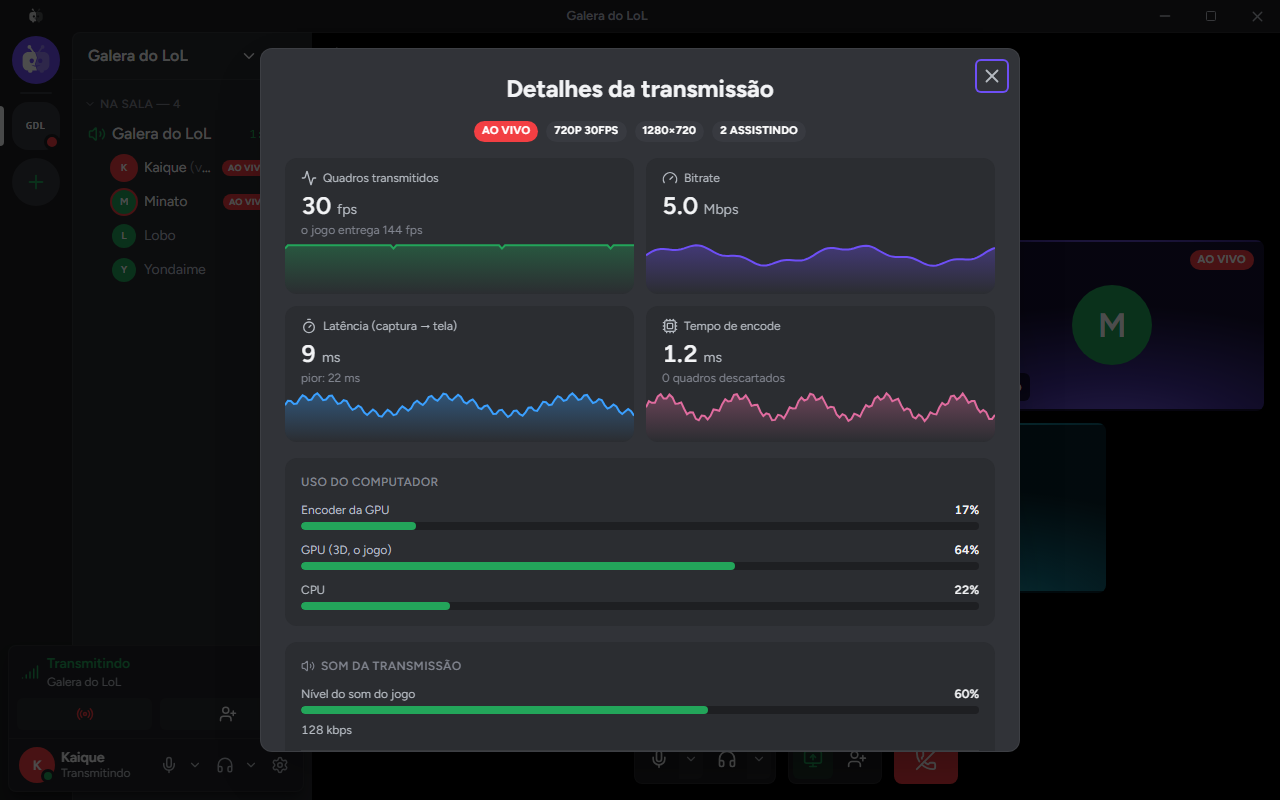
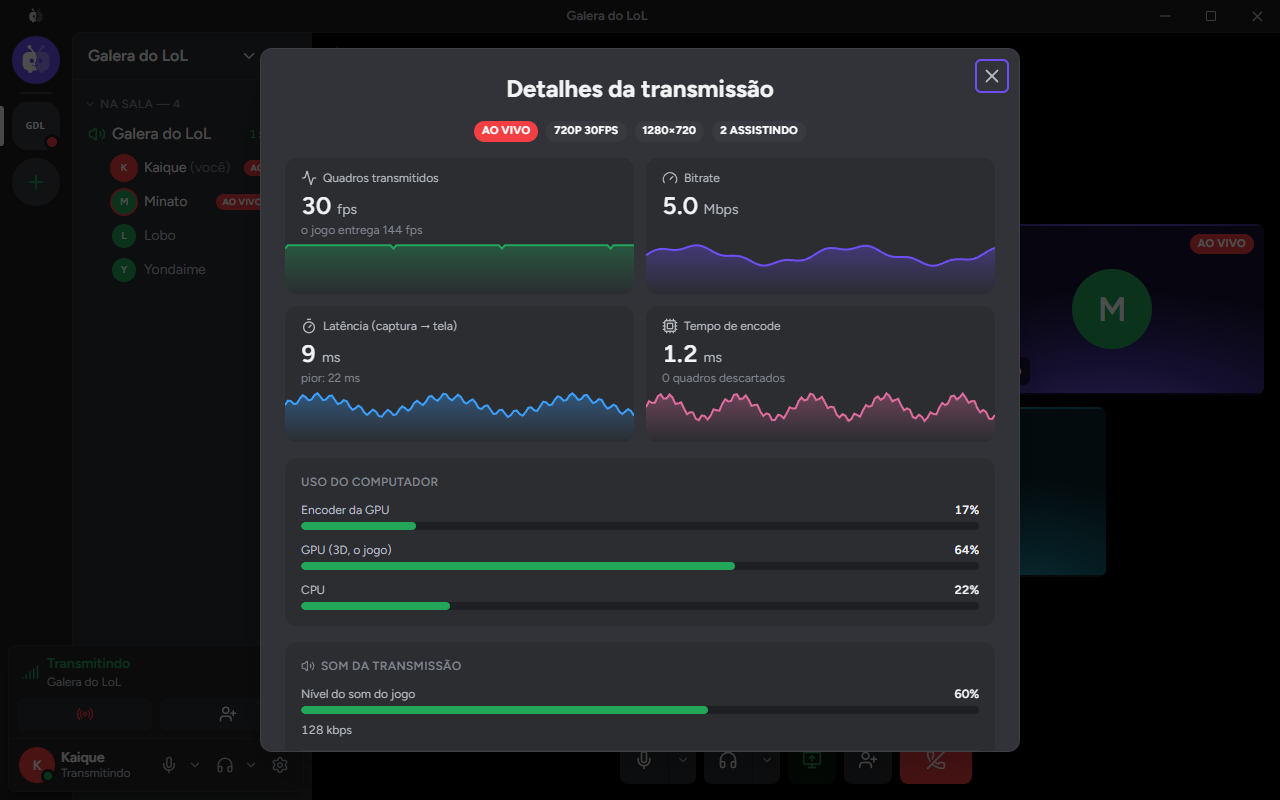
docs(docs): atualiza o README e o roadmap para a versão 0.10 (#83)

diff --git a/README.md b/README.md
@@ -35,7 +35,7 @@
 </p>
 
 > [!NOTE]
-> **Versão 0.9: várias lives ao mesmo tempo.** Cada live que você assiste vira um quadro da sala, igual ao da sua: assista até 4 de uma vez, com volume, silenciar, tela cheia, picture in picture e detalhes com o ping no menu de cada uma. Quem está atrás de CGNAT agora se ouve na voz: se dois amigos não se alcançam, um terceiro da sala repassa a voz entre eles, assinada para ninguém no meio conseguir falsificar. A sala não tem mais limite de pessoas, o convite do servidor virou um link clicável, o ícone do servidor mostra um alto-falante quando tem gente em call e as conversas ganharam som de mensagem nova, contador e cancelar download. A sala inteira distribuindo o vídeo chega na [Fase 3](docs/roadmap.md). Achou um problema? [Abra uma issue](https://github.com/Kaique292/squadview/issues).
+> **Versão 0.10: a live com cara de Discord.** O vídeo agora é desenhado por baixo da interface: o AO VIVO, a qualidade, o nome, os menus e as animações aparecem por cima da live, sem as manchas e molduras pretas de antes, e um modal aberto não esconde mais a live. O picture in picture ganhou controles ao passar o mouse: silenciar, volume e voltar para o app. A sala ficou como a do Discord, com quem transmite e quem está assistindo no topo e a barra de botões embaixo dos quadros. Nas conversas, passe o mouse numa mensagem para reagir com emoji ou responder, e a hora aparece como no Discord ("Ontem às 23:59", só a hora para hoje e a data para dias anteriores). A sala inteira distribuindo o vídeo chega na [Fase 3](docs/roadmap.md). Achou um problema? [Abra uma issue](https://github.com/Kaique292/squadview/issues).
 
 ## ✨ O que ele faz
 
@@ -45,13 +45,13 @@
 - **Direto de PC para PC.** O vídeo não passa por servidor. As conexões são cifradas (QUIC com TLS 1.3).
 - **Jogue do jeito que quiser.** Janela, sem bordas ou tela cheia: escolha o jogo uma vez e o app acompanha sozinho do cliente para a partida e de volta (LoL, Valorant e jogos com launcher). Nada é injetado no jogo, então é seguro com Vanguard, EAC e BattlEye.
 - **Só o áudio do jogo.** Transmitindo um jogo ou app, vai só o som dele, e o som acompanha quando o jogo troca de janela; o som da call fica de fora.
-- **A sua live na sala**, como no Discord: transmitindo, a sua tela vira um quadro da sala, com a qualidade e o AO VIVO no canto. Clique para pôr em foco, dois cliques para a tela cheia e o botão direito para parar, trocar o que transmite, mudar a qualidade ou ligar e desligar o som, sem sair do ar. Os detalhes mostram o último minuto em gráficos (fps, bitrate, latência e encode) e o uso da GPU e da CPU em barras.
-- **Assista várias lives ao mesmo tempo**, como no Discord: cada live que você assiste vira um quadro da sala, igual ao da sua, e dá para assistir até 4 de uma vez. Clique para pôr em foco, dois cliques para a tela cheia e o botão direito (ou os "...") para o volume de até 200%, silenciar, parar de assistir e os detalhes (fps, bitrate, latência e ping em gráficos). Quem transmite vê quantos e quem estão assistindo. Quer jogar enquanto assiste? Mande a live para uma **janelinha por cima de tudo** (picture in picture).
+- **A sua live na sala**, como no Discord: transmitindo, a sua tela vira um quadro da sala, com a qualidade e o AO VIVO no canto, desenhados por cima da imagem sem esconder nada dela. Clique para pôr em foco, dois cliques para a tela cheia e o botão direito para parar, trocar o que transmite, mudar a qualidade ou ligar e desligar o som, sem sair do ar. Os detalhes mostram o último minuto em gráficos (fps, bitrate, latência e encode) e o uso da GPU e da CPU em barras.
+- **Assista várias lives ao mesmo tempo**, como no Discord: cada live que você assiste vira um quadro da sala, igual ao da sua, e dá para assistir até 4 de uma vez. Clique para pôr em foco, dois cliques para a tela cheia e o botão direito (ou os "...") para o volume de até 200%, silenciar, parar de assistir e os detalhes (fps, bitrate, latência e ping em gráficos). No topo da sala aparecem quem transmite e as fotos de quem está assistindo; passe o mouse para ver a lista. Quer jogar enquanto assiste? Mande a live para uma **janelinha por cima de tudo** (picture in picture), com silenciar, volume e voltar para o app ao passar o mouse.
 - **Funciona atrás de CGNAT.** Se a conexão direta não fecha (internet da operadora, 4G), o app tenta por IPv6 e, se ainda não der, recebe o vídeo por alguém da sala que já está assistindo. A voz faz o mesmo: se dois amigos não se alcançam, outro membro da sala repassa a voz entre eles, assinada com uma chave que só os dois conhecem ([ADR 0020](docs/adr/0020-voz-repassada-pela-sala.md)). Tudo de graça, sem servidor no meio; há também um repassador na nuvem pronto para ligar ([ADR 0014](docs/adr/0014-conexao-em-camadas.md)).
 - **Chat de voz na sala.** A sala é um canal de voz como o do Discord: um quadro por pessoa, cada um com o seu fundo em degradê, borda verde (ou o efeito que você escolher, com a cor que quiser; quando duas pessoas falam lado a lado, as cores se misturam onde os efeitos se tocam) em quem fala, mudo e surdo, e clique num quadro para pôr a pessoa em foco. Volume e silenciar por pessoa (só para você), isolamento de voz contra teclado e ventilador e controle automático de ganho, para todo mundo chegar no mesmo volume. A voz também vai direto de PC para PC.
 - **Amigos.** Veja quem está online, numa sala ou transmitindo. Peça para entrar na sala de um amigo (qualquer pessoa da sala aceita), chame amigos para a sua e marque quem entra direto. Adicione direto pelo botão direito em quem está na sala com você, ou depois, em Recentes.
 - **Servidores com salas fixas.** Crie um servidor para a turma, com salas de voz que ficam lá mesmo vazias. A lateral mostra quem está em cada sala e quem está ao vivo, mesmo com você fora dela, o ícone do servidor ganha um alto-falante quando tem gente em call, e quem é do servidor entra direto, sem pedir permissão. Chame a galera por um link de convite clicável, escolha administradores e dê um ícone ao servidor, ajustando o recorte, a posição e o zoom. O botão direito no ícone do servidor abre o menu dele.
-- **Conversas privadas.** Mande mensagens, fotos, vídeos e arquivos para um amigo, direto de PC para PC: nem o texto passa por servidor, e o histórico fica só no seu PC. Fotos pequenas aparecem sozinhas; arquivos grandes e vídeos esperam você clicar em Baixar (e dá para cancelar no meio). Mensagem nova toca um som e soma no contador do ícone. O que você mandar com o amigo offline fica esperando e vai quando ele aparecer.
+- **Conversas privadas.** Mande mensagens, fotos, vídeos e arquivos para um amigo, direto de PC para PC: nem o texto passa por servidor, e o histórico fica só no seu PC. Fotos pequenas aparecem sozinhas; arquivos grandes e vídeos esperam você clicar em Baixar (e dá para cancelar no meio). Passe o mouse numa mensagem para reagir com emoji ou responder, e a hora aparece como no Discord. Mensagem nova toca um som e soma no contador do ícone. O que você mandar com o amigo offline fica esperando e vai quando ele aparecer.
 - **Salas rápidas com nome e código, sem limite de pessoas.** Dê um nome à sala e mande o **link de convite**: quem tem o app entra direto, quem não tem cai na página de download.
 - **Integração com o Discord.** Entre com a sua conta: seu nome e sua foto aparecem para toda a sala. Mostre no seu perfil do Discord que está numa sala, transmitindo ou assistindo, com o botão "Entrar na sala" se quiser.
 - **Visual que você já conhece.** Interface na organização do Discord, com identidade própria, configurações por categoria e efeito de vidro ajustável. Sons de aviso ao entrar, sair, mutar, ensurdecer e transmitir (com volume e cada som desligável).
@@ -240,7 +240,7 @@ As miniaturas das janelas usam o crate `jpeg-encoder`: _this software is based i
 
 There is **no media server**: video goes directly between PCs over QUIC, with UDP hole punching. The plan (Phase 3) is for the room itself to distribute the video: members with spare upload relay already-encoded packets, and members on weak connections get a 720p layer. A tiny free signaling service (Cloudflare Worker) only helps peers find each other; no video goes through it.
 
-- **Status:** version 0.9. One friend streams and the rest of the room watches inside the app, directly PC to PC (NVIDIA and AMD), with a live viewer count. Members behind CGNAT connect over IPv6 or get the stream relayed by someone already watching; an optional cloud TURN relay is ready to turn on. The room is a Discord-like voice channel (peer-to-peer Opus voice with noise suppression), with friends, presence, "ask to join" requests, custom speaking effects that blend where they touch, picture-in-picture, notification sounds and a system tray icon. Watch up to 4 streams at once, each one a tile in the room with its own volume, mute, fullscreen, picture-in-picture and stats. When two members can't reach each other (CGNAT), a third member relays their voice, signed end to end so the relay can't forge it. Rooms have no member limit. Servers with persistent voice rooms (showing who is in each room, with members joining directly), clickable invite links, roles and cropped icons; private peer-to-peer messages with files (no server in between, history kept locally). Discord login, invite links, Rich Presence and a silent Discord-style installer. Your own stream shows up as a tile in the room (Discord-style), with a right-click menu to stop, switch source, change quality or toggle audio without going offline, and a details view with live charts. Full room-wide relaying (mesh) is Phase 3. See the [roadmap](docs/roadmap.md).
+- **Status:** version 0.10. One friend streams and the rest of the room watches inside the app, directly PC to PC (NVIDIA and AMD), with a live viewer count. Members behind CGNAT connect over IPv6 or get the stream relayed by someone already watching; an optional cloud TURN relay is ready to turn on. The room is a Discord-like voice channel (peer-to-peer Opus voice with noise suppression), with friends, presence, "ask to join" requests, custom speaking effects that blend where they touch, picture-in-picture, notification sounds and a system tray icon. Watch up to 4 streams at once, each one a tile in the room with its own volume, mute, fullscreen, picture-in-picture (with hover controls) and stats. Video is drawn underneath the interface with DirectComposition, so badges, menus and animations blend over the stream. When two members can't reach each other (CGNAT), a third member relays their voice, signed end to end so the relay can't forge it. Rooms have no member limit. Servers with persistent voice rooms (showing who is in each room, with members joining directly), clickable invite links, roles and cropped icons; private peer-to-peer messages with files, emoji reactions and replies (no server in between, history kept locally). Discord login, invite links, Rich Presence and a silent Discord-style installer. Your own stream shows up as a tile in the room (Discord-style), with a right-click menu to stop, switch source, change quality or toggle audio without going offline, and a details view with live charts. Full room-wide relaying (mesh) is Phase 3. See the [roadmap](docs/roadmap.md).
 - **Stack:** Rust core, Tauri v2, React 19 + Tailwind v4, QUIC (quinn) peer-to-peer mesh, Cloudflare Worker for signaling.
 - **Contributing:** PRs target the `dev` branch and use [Conventional Commits](https://www.conventionalcommits.org/). Docs are in Portuguese; issues and PRs in English are welcome too.
 - **Support:** [Buy Me a Coffee](https://buymeacoffee.com/kaiqueamaral).

diff --git a/docs/roadmap.md b/docs/roadmap.md
@@ -2,7 +2,7 @@
 
 Status: ⬜ não começou · 🟨 em andamento · ✅ concluída
 
-Onde estamos (v0.8.0, com a 0.9 na `dev`): a Fase 0 fechou. Na Fase 1, o pipeline funciona com NVIDIA e AMD (League of Legends: 59 fps transmitidos, ~5 ms de captura até o encode), mas falta medir a perda de FPS do jogo com PresentMon em mais um jogo. Na Fase 2, a conexão direta, o hole punching e os repasses de reserva já estão no ar; faltam o NACK e o teste com um amigo em outra rede, medindo a latência. Na Fase 3 já entraram o planejador e o simulador da malha, o IPv6, o repasse do vídeo e da voz por um membro da sala e a sala sem limite de pessoas; falta a sala distribuir o vídeo de verdade (faixas, simulcast, troca de pai). Na Fase 4, entraram servidores com salas fixas e presença, conversas privadas, picture in picture, efeitos de fala e várias lives ao mesmo tempo. Na Fase 5, já saíram o AMF (pelo Media Foundation) e o Rich Presence.
+Onde estamos (v0.10): a Fase 0 fechou. Na Fase 1, o pipeline funciona com NVIDIA e AMD (League of Legends: 59 fps transmitidos, ~5 ms de captura até o encode), mas falta medir a perda de FPS do jogo com PresentMon em mais um jogo. Na Fase 2, a conexão direta, o hole punching e os repasses de reserva já estão no ar; faltam o NACK e o teste com um amigo em outra rede, medindo a latência. Na Fase 3 já entraram o planejador e o simulador da malha, o IPv6, o repasse do vídeo e da voz por um membro da sala e a sala sem limite de pessoas; falta a sala distribuir o vídeo de verdade (faixas, simulcast, troca de pai). Na Fase 4, entraram servidores com salas fixas e presença, conversas privadas, picture in picture com controles, efeitos de fala, várias lives ao mesmo tempo, o vídeo desenhado por baixo da interface e reações e respostas nas conversas. Na Fase 5, já saíram o AMF (pelo Media Foundation) e o Rich Presence.
 
 | Fase               | Status | Entrega                                                       | Critério de saída                                                                      |
 | ------------------ | ------ | ------------------------------------------------------------- | -------------------------------------------------------------------------------------- |
